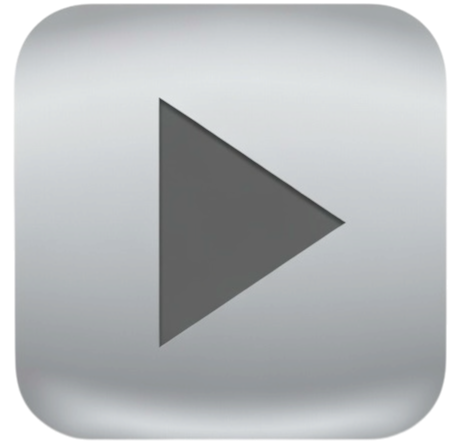
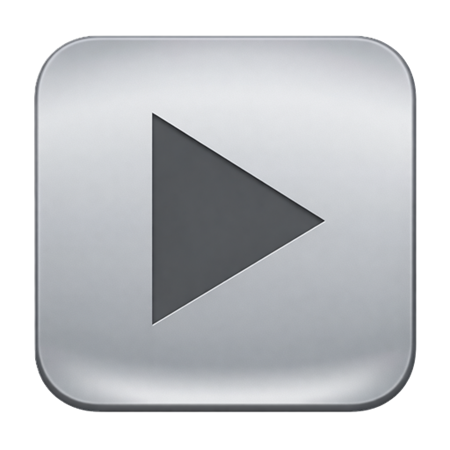
Modification des boutons et ajout champ de recherche console

diff --git a/src/app/public/admin/console/console.component.scss b/src/app/public/admin/console/console.component.scss
@@ -188,3 +188,27 @@ transform: translateY(5%);
     inset -3px -3px 6px rgba(255, 255, 255, 0.7);
   transform: translateY(1px);
 }
+
+.filter-bar {
+  margin-bottom: 15px;
+  margin: 5px auto;
+  text-align: center;
+}
+
+.filter-bar input {
+  width: 260px;
+  padding: 8px 12px;
+  border-radius: 6px;
+  border: 1px solid #ccc;
+  background: #f7f7f7;
+  font-size: 14px;
+  transition: all 0.2s ease;
+  outline: none;
+}
+
+.filter-bar input:focus {
+  border-color: #888;
+  background: #fff;
+  box-shadow: 0 0 4px rgba(0,0,0,0.15);
+}
+

diff --git a/src/app/public/admin/console/console.component.ts b/src/app/public/admin/console/console.component.ts
@@ -10,10 +10,11 @@ import { GarmentService } from '../../../services/garment.service';
 import { GenderService } from '../../../services/gender.service';
 import { MarqueService } from '../../../services/marque.service';
 import { CdkDragDrop, DragDropModule, moveItemInArray } from '@angular/cdk/drag-drop';
+import { FormsModule } from '@angular/forms';
 
 @Component({
   selector: 'app-console',
-  imports: [RouterLink, DragDropModule],
+  imports: [RouterLink, DragDropModule, FormsModule],
   templateUrl: './console.component.html',
   styleUrl: './console.component.scss',
 })
@@ -23,6 +24,7 @@ export class ConsoleComponent implements OnInit {
   marques: Marque[] = [];
   garments: Garment[] = [];
   genders: Gender[] = [];
+  search: string = '';
 
   private router = inject(Router);
   private auth = inject(AuthService);
@@ -188,5 +190,19 @@ export class ConsoleComponent implements OnInit {
   logout() {
     this.auth.logout();
   }
+
+get productsFiltered(): Product[] {
+  const f = this.search.toLowerCase().trim();
+  if (!f) return this.products;
+
+  return this.products.filter(p =>
+    p.sku?.toLowerCase().includes(f) ||
+    p.name?.toLowerCase().includes(f) ||
+    p.marque?.toLowerCase().includes(f) ||
+    p.type?.toLowerCase().includes(f)
+  );
+}
+
+
 
 }

diff --git a/src/app/public/features/carousel/carousel-product/carousel-product.component.ts b/src/app/public/features/carousel/carousel-product/carousel-product.component.ts
@@ -1,15 +1,14 @@
-import { Component, inject, OnInit, signal } from '@angular/core';
-import { ActivatedRoute, Router, RouterLink } from '@angular/router';
-import { Product } from '../../../../models/product';
-import { ApiService } from '../../../../services/api.service';
-import { ProductService } from '../../../../services/product.service';
 import { CommonModule } from '@angular/common';
-import { ComponentRightComponent } from '../../component-right/component-right.component';
-import { ComponentLeftComponent } from '../../component-left/component-left.component';
+import { Component, inject, OnInit, signal } from '@angular/core';
+import { ActivatedRoute, Router } from '@angular/router';
+import { Product } from '../../../../models/product';
+import { ProductService } from '../../../../services/product.service';
+import { CartComponent } from "../../../cart/cart.component";
 import { FooterComponent } from "../../../footer/footer.component";
 import { ProductCardComponent } from '../../../product-card/product-card.component';
-import { CartComponent } from "../../../cart/cart.component";
 import { ButtonReturnComponent } from "../../button-return/button-return.component";
+import { ComponentLeftComponent } from '../../component-left/component-left.component';
+import { ComponentRightComponent } from '../../component-right/component-right.component';
 
 @Component({
   selector: 'app-carousel-product',
@@ -19,8 +18,6 @@ import { ButtonReturnComponent } from "../../button-return/button-return.compone
 })
 export class CarouselProductComponent implements OnInit{
 
-
- private apiService = inject(ApiService);
  private productService = inject(ProductService);
  private router = inject(Router);
  private route = inject(ActivatedRoute);

diff --git a/src/app/public/admin/console/console.component.html b/src/app/public/admin/console/console.component.html
@@ -11,8 +11,13 @@
 
   <!---------------- PRODUCTS ---------------->
   <div class="products">
-    <div class="product-table">
+    
 
+
+    <div class="product-table">
+      <div class="filter-bar">
+        <input type="text" placeholder="Rechercher (SKU, nom, marque, type)…" [(ngModel)]="search">
+      </div>
       <table class="tproduct">
         <thead>
           <tr>
@@ -36,7 +41,7 @@
         <!-- 🔥 Activation du drag & drop -->
         <tbody cdkDropList (cdkDropListDropped)="drop($event)">
 
-          @for (product of products; track product.id) {
+          @for (product of productsFiltered; track product.id) {
           <tr cdkDrag>
             <td></td>
             <td>{{ product.display_order }}</td>
@@ -58,7 +63,6 @@
                 <img src="/pictures/delete.png">
               </button>
             </td>
-
           </tr>
           }
 

diff --git a/src/app/public/features/carousel/carousel-product/carousel-product.component.scss b/src/app/public/features/carousel/carousel-product/carousel-product.component.scss
@@ -236,12 +236,14 @@
 
   .imgBack {
     width: 55px;
+    transform: scale(0.55);
     display: block;
     position: absolute;
-    left: 5px;
-    top: 5px;
+    left: -15px;
     z-index: 997;
     cursor: pointer;
+    margin-top: 13px;
+    
   }
 
   .img_logo {

diff --git a/src/app/public/features/carousel/carousel-product/carousel-product.component.html b/src/app/public/features/carousel/carousel-product/carousel-product.component.html
@@ -7,8 +7,7 @@
             <!----------------------------- ENTETE ------------------------->
             <div class="div1">
 
-                <app-button-return></app-button-return>
-                <!-- <img class="imgBack" src="pictures\back.png" [routerLink]="['/home']" alt="Back"> -->
+                <app-button-return class="imgBack"></app-button-return>
 
                 <!-- LOGO -->
                 <div class="container-logo">

diff --git a/src/app/public/features/construction/construction.component.html b/src/app/public/features/construction/construction.component.html
@@ -4,7 +4,7 @@
         <img src="/pictures/under_construction.png" alt="Construction">
     </div>
 
-    <div class="copyright" disabled="true">Version 18052026_1.6</div>
+    <div class="copyright" disabled="true">Version 19052026_1.7</div>
 
     <div class="copyright">
         <a [routerLink]="['admin/login']">